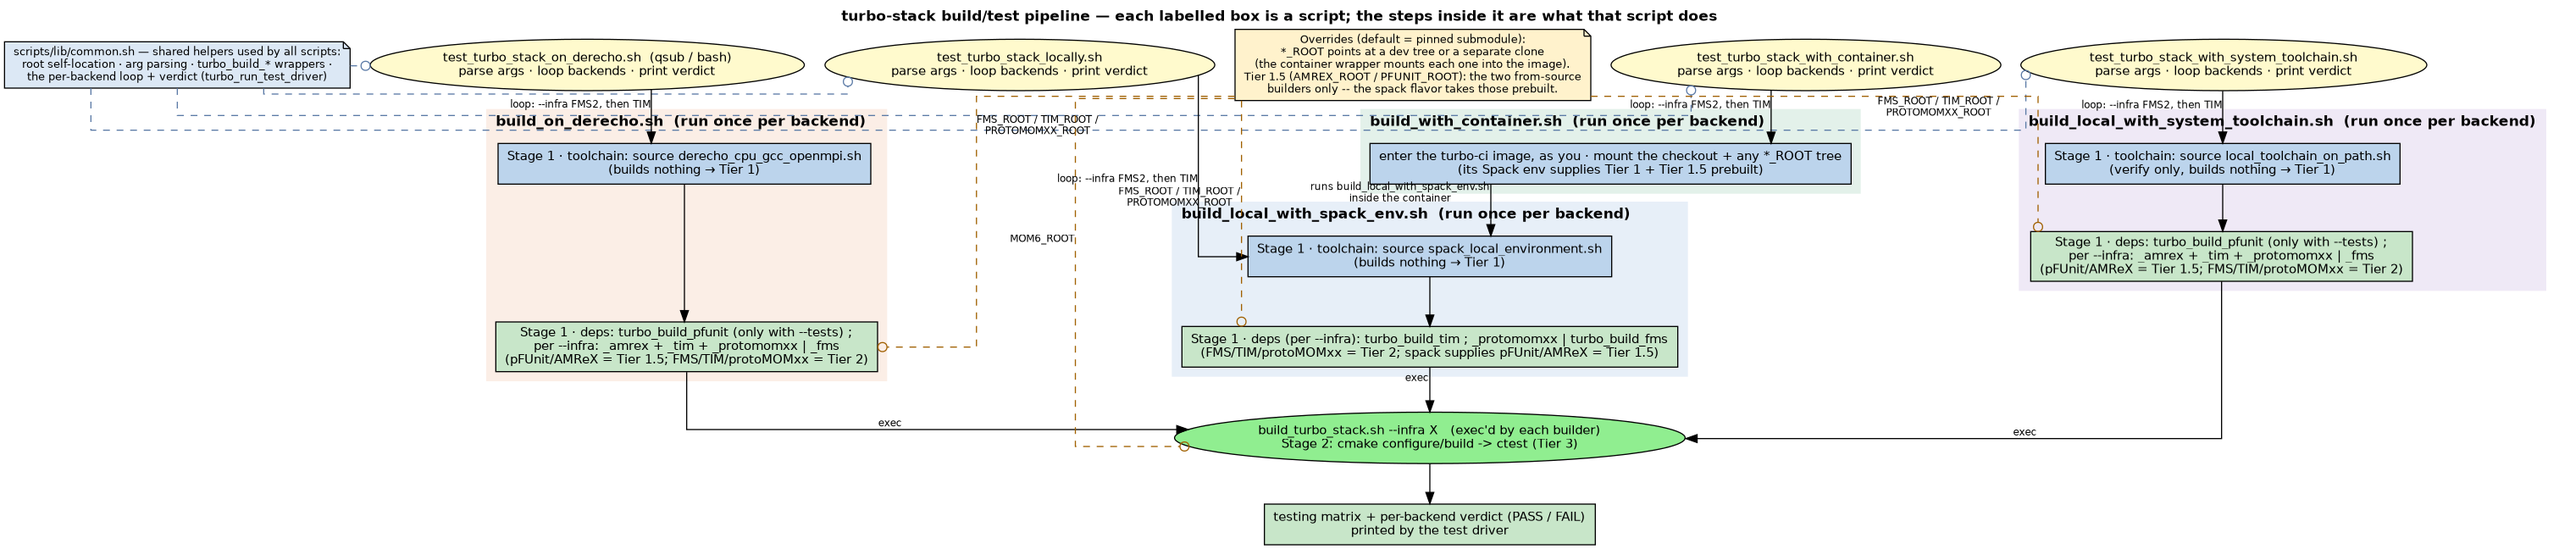
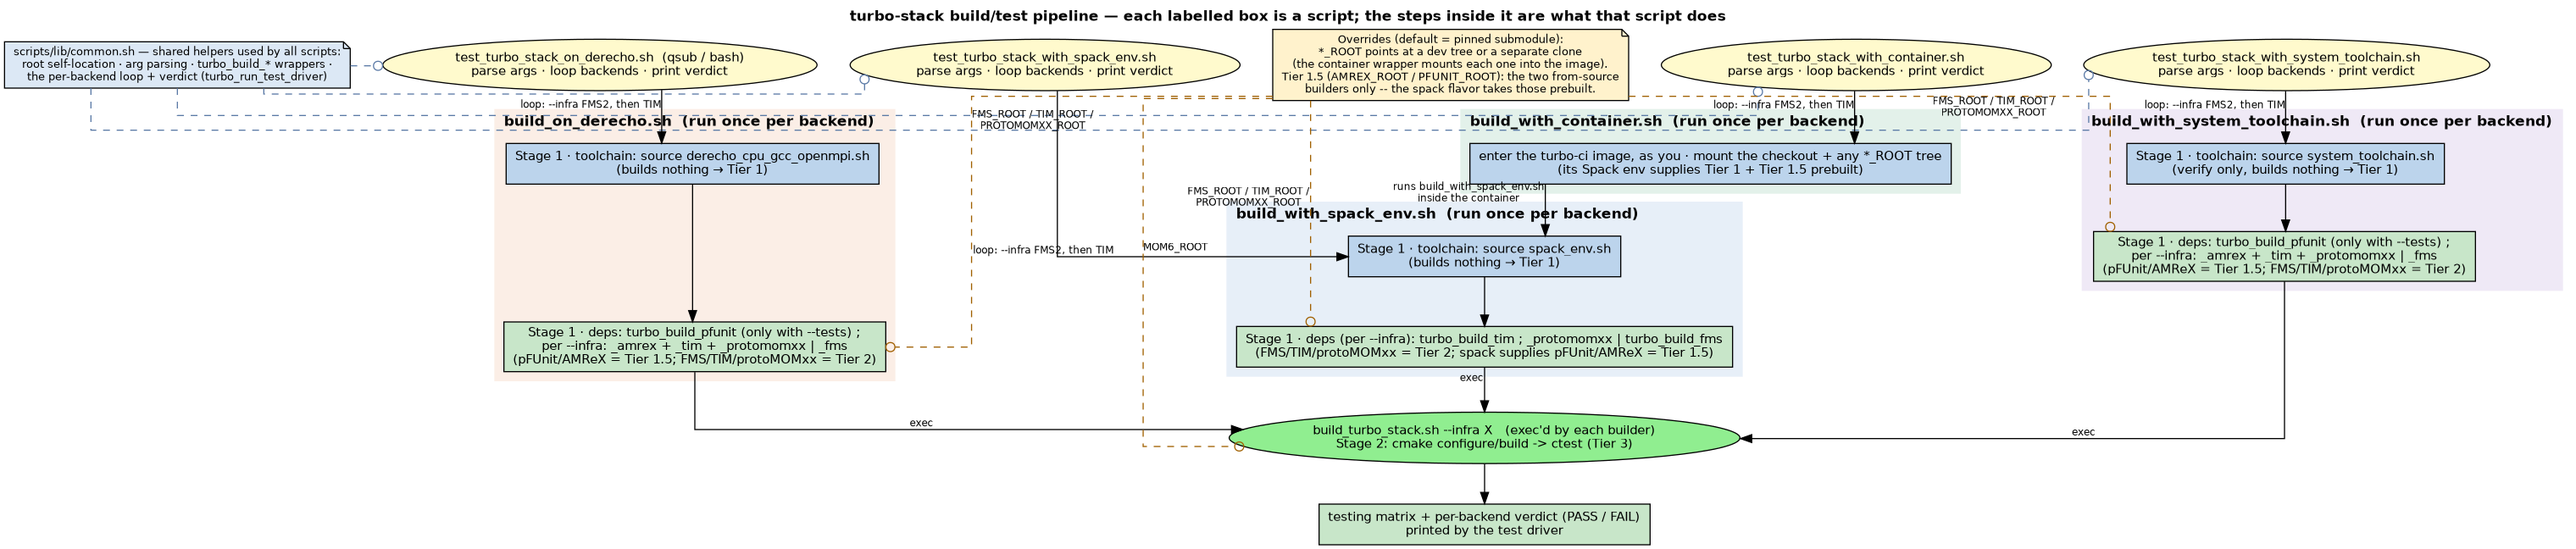
Re-render the orchestration figure with the new names
docs/build_test_orchestration.dot names the renamed scripts, so its PNG
is re-rendered (with `dot -Tpng:cairo`, as #344 documents). At the new
widths the default nodesep put the "loop: --infra FMS2, then TIM" and
"FMS_ROOT / TIM_ROOT / PROTOMOMXX_ROOT" labels on top of each other;
nodesep=0.4 separates them, and the figure's prompt now says so.

diff --git a/docs/build_test_orchestration_prompt.md b/docs/build_test_orchestration_prompt.md
@@ -56,7 +56,8 @@ orchestration, and render to `docs/build_test_orchestration.png` with `dot -Tpng
   "(run once per backend)", `labeljust=l`.
 - Stage-1 toolchain box `#bcd4ec`; Stage-1 deps box `#c8e6c9`; shared Stage-2 ellipse `#90ee90`; verdict box `#c8e6c9`.
 - `common.sh` note: `shape=note` `#dce8f5`.  Overrides note: `shape=note` `#fff2cc`.
-- `rankdir=TB`, `splines=ortho`, `compound=true`, `newrank=true`.  Edge text via `xlabel=`.  Point
+- `rankdir=TB`, `splines=ortho`, `compound=true`, `newrank=true`, `nodesep=0.4` (at the default
+  0.25 the edge labels between the drivers and Path A overlap).  Edge text via `xlabel=`.  Point
   edges at specific nodes (never `lhead=cluster_*`).
 
 ### Nodes & flow
